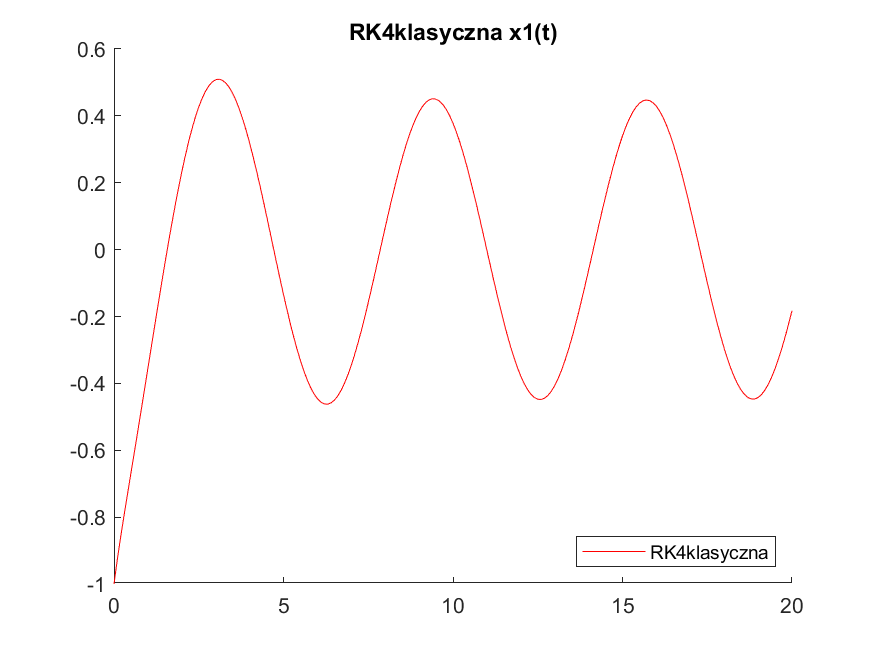
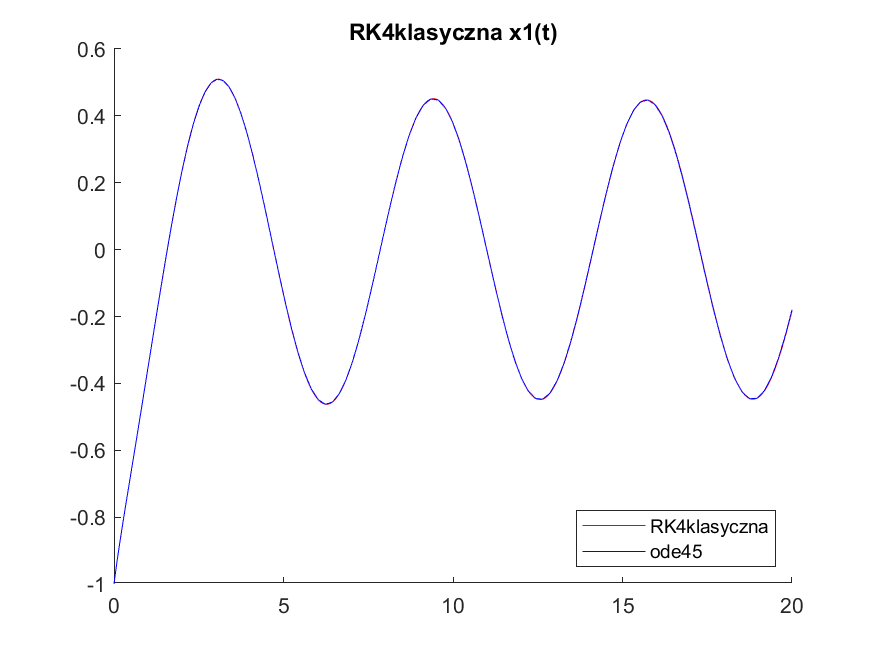
restored

diff --git a/zadanie.m b/zadanie.m
@@ -5,5 +5,5 @@ x0 = [-1, 0];
 global save;
 global comp_with_ode45;
 save = true;
-comp_with_ode45 = false;
-[t, x] = prezentacja(@PK4adams, @func, a, h, x0);
+comp_with_ode45 = true;
+[t, x] = prezentacja(@RK4klasyczna, @func, a, h, x0);
